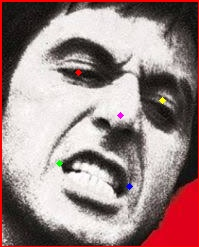
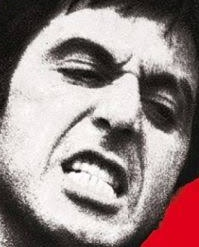
Add affine function from Alexey, savind landmarks.txt, skip showing bounding box and landmarks on picture

diff --git a/BB_detector/detect.py b/BB_detector/detect.py
@@ -62,6 +62,19 @@ def load_model(model, pretrained_path, load_to_cpu):
     model.load_state_dict(pretrained_dict, strict=False)
     return model
 
+#Cutting face function
+def cut_face(img, ldm, resize=256):
+    #src = ldm
+    dst = np.array([[38.2946, 51.6963],
+                    [73.5318, 51.5014],
+                    [56.0252, 71.7366],
+                    [41.5493, 92.3655],
+                    [70.7299, 92.2041]], dtype=np.float32)
+    dst = dst * resize / 112
+    M, inliers = cv2.estimateAffinePartial2D(ldm, dst, method=cv2.RANSAC, ransacReprojThreshold=5)
+    face = cv2.warpAffine(img, M, (resize, resize))
+    return face
+
 
 
 if __name__ == '__main__':
@@ -144,6 +157,8 @@ if __name__ == '__main__':
 
         dets = np.concatenate((dets, landms), axis=1)
 
+
+
         # show image
         if args.save_image:
             for b in dets:
@@ -152,33 +167,60 @@ if __name__ == '__main__':
                 text = "{:.4f}".format(b[4])
                 b = list(map(int, b))
                 #(image, start_point, end_point, color, thickness)
-                cv2.rectangle(img_raw, (b[0], b[1]), (b[2], b[3]), (0, 0, 255), 2)
+                #cv2.rectangle(img_raw, (b[0], b[1]), (b[2], b[3]), (0, 0, 255), 2)
                 cx = b[0]
                 cy = b[1] + 12
                 #cv2.putText(img_raw, text, (cx, cy), cv2.FONT_HERSHEY_DUPLEX, 0.5, (255, 255, 255))
 
                 # landms
-                cv2.circle(img_raw, (b[5], b[6]), 1, (0, 0, 255), 4)
-                cv2.circle(img_raw, (b[7], b[8]), 1, (0, 255, 255), 4)
-                cv2.circle(img_raw, (b[9], b[10]), 1, (255, 0, 255), 4)
-                cv2.circle(img_raw, (b[11], b[12]), 1, (0, 255, 0), 4)
-                cv2.circle(img_raw, (b[13], b[14]), 1, (255, 0, 0), 4)
-            # save image
+                #cv2.circle(img_raw, (b[5], b[6]), 1, (0, 0, 255), 4)
+                #cv2.circle(img_raw, (b[7], b[8]), 1, (0, 255, 255), 4)
+                #cv2.circle(img_raw, (b[9], b[10]), 1, (255, 0, 255), 4)
+                #cv2.circle(img_raw, (b[11], b[12]), 1, (0, 255, 0), 4)
+                #cv2.circle(img_raw, (b[13], b[14]), 1, (255, 0, 0), 4)
 
-            name = "test.jpg"
-            name_rect = "rect.jpg"
-            cv2.imwrite(name, img_raw)
 
-            print ("bbbbb", b[0], b[1], b[2], b[3])
 
-            #box = [
-            #    (b[0], b[0] + b[1]),
-            #    (b[2], b[2]+b[3])
-            #]
+    # save image
 
-            #croped_image = img_raw[b[1]: b[1] + b[2]-b[0],  b[0]: b[0] + b[3]-b[1] ]
-            croped_image = img_raw[b[1]: b[1] + b[3] - b[1] , b[0]: b[0] + b[2] - b[0]]
-            cv2.imwrite(name_rect, croped_image)
+    name = "test.jpg"
+    name_rect = "rect.jpg"
+    cv2.imwrite(name, img_raw)
 
-            #cv2.imwrite(name_rect, img_raw[b[0]:b[1], b[2]:b[3]])
+    #print ("bbbbb", b[0], b[1], b[2], b[3])
 
+
+    #croped_image = img_raw[b[1]: b[1] + b[2]-b[0],  b[0]: b[0] + b[3]-b[1] ]
+    croped_image = img_raw[b[1]: b[1] + b[3] - b[1] , b[0]: b[0] + b[2] - b[0]]
+    cv2.imwrite(name_rect, croped_image)
+
+    print("landmarks)", b[5])
+
+    landmarks = np.array([
+                        [b[5], b[6]],
+                        [b[7], b[8]],
+                        [b[9], b[10]],
+                        [b[11], b[12]],
+                        [b[13], b[14]]
+                    ], dtype=np.float32)
+
+
+    #print("landmarks)", (landmarks.shape))
+
+    face = cut_face(img = img_raw, ldm = landmarks, resize=256)
+    name_rect_affin = 'rect_affin.jpg'
+    cv2.imwrite(name_rect_affin, face)
+
+
+    #cv2.imwrite(name_rect, img_raw[b[0]:b[1], b[2]:b[3]])
+
+    # Save landmarks to txt
+    file_name = image_path.split('/')[-1]
+    landmarks_str = '{file_name}    {}  {}  {}  {}  {}  {}  {}  {}  {}  {}'.format(
+        b[5], b[6], b[7], b[8], b[9], b[10], b[11], b[12], b[13], b[14], file_name=file_name)
+
+    text_file = open("landmarks.txt", "w")
+    text_file.write(landmarks_str)
+    text_file.close()
+
+    print(landmarks_str)
